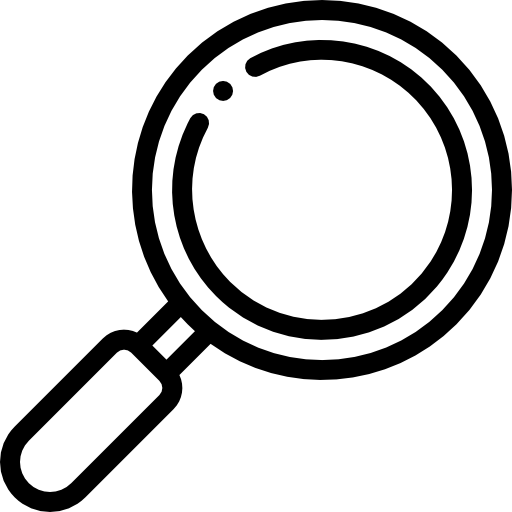
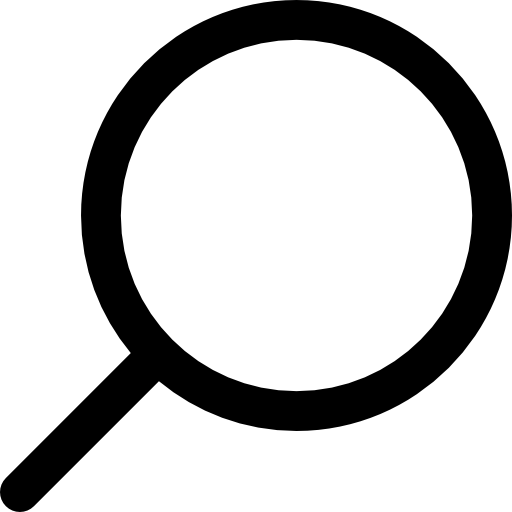
Thay đổi giao diện ô tìm kiếm - Thêm đường viền cho ô - Gộp 2 nút xóa và tìm kiếm dữ liệu vào trong ô.

diff --git a/FoodRecipeApp/MainWindow.xaml b/FoodRecipeApp/MainWindow.xaml
@@ -46,14 +46,18 @@
                 <Button Height="40" Width="120" x:Name="FoodButton" Click="FoodButton_Click" BorderThickness="0" Content="Food"/>
                 <Button Height="40" Width="120" x:Name="DrinksButton" Click="DrinksButton_Click" BorderThickness="0" Content="Drinks"/>
             </StackPanel>
-            <StackPanel DockPanel.Dock="Right" Orientation="Horizontal" Margin="0,0,5,0">
-                <TextBox Margin="3,0,5,0" Width="205" Height="30" Padding="3" FontSize="14">Search</TextBox>
-                <Button Width="30" BorderThickness="0" Padding="6" Background="White">
-                    <Image Source="Images/deleteText.png"></Image>
-                </Button>
-                <Button Width="30" BorderThickness="0" Padding="4" Background="White">
-                    <Image Source="Images/searchText.png"></Image>
-                </Button>
+            <StackPanel DockPanel.Dock="Right">
+                <Border CornerRadius="6" Margin="0,3,5,0" BorderBrush="Gray" BorderThickness="3" DockPanel.Dock="Top">
+                    <StackPanel Orientation="Horizontal">
+                        <TextBox Margin="3,0,0,0" Width="205" Height="30" VerticalContentAlignment="Center" Padding="3" FontSize="14" BorderThickness="0">Search</TextBox>
+                        <Button Width="30" BorderThickness="0" Padding="8" Background="White">
+                            <Image Source="Images/deleteText.png"></Image>
+                        </Button>
+                        <Button Width="30" BorderThickness="0" Padding="7" Background="White">
+                            <Image Source="Images/searchText.png"></Image>
+                        </Button>
+                    </StackPanel>
+                </Border>
             </StackPanel>
             <TextBlock></TextBlock>
         </DockPanel>
